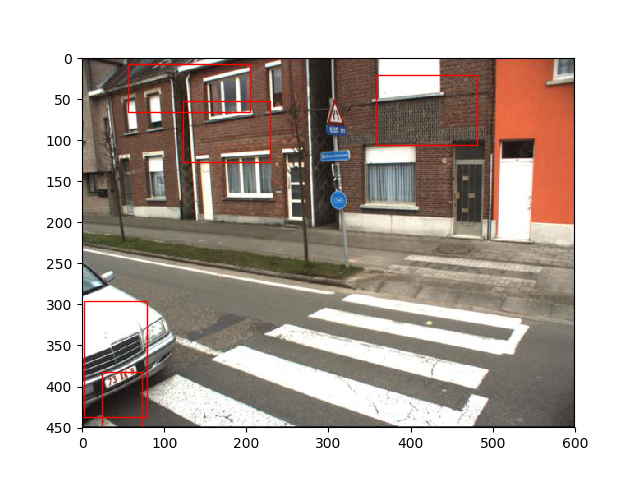
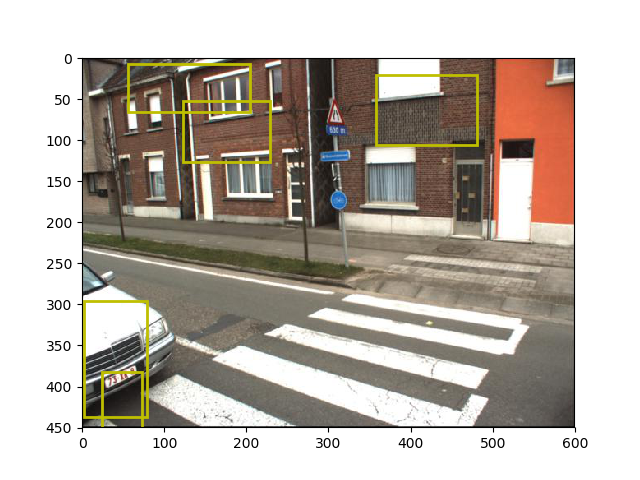
few changes

Changed region(s): [[0.1875, 0.125, 0.4375, 0.3438], [0.125, 0.625, 0.25, 0.875], [0.5625, 0.1562, 0.75, 0.3125]]

diff --git a/detection/data_loader.py b/detection/data_loader.py
@@ -9,10 +9,11 @@ import numpy as np
 import pandas as pd
 import csv
 from PIL import Image
+from data_loader import DetectionDataset
 
 
-width = 1200
-height = 800
+width = 416
+height = 416
 
 
 data_transform = transforms.Compose([
@@ -23,7 +24,7 @@ data_transform = transforms.Compose([
 
 class DetectionDataset(Dataset):
 
-	def __init__(self, root_dir, transform=data_transform, use_superclass=False, use_data='all'):
+	def __init__(self, root_dir, transform=data_transform, use_superclass=False, use_data='all', batch_size=8):
 		"""
 		Args:
 		    root_dir (string): Directory with all the images and annotation files
@@ -36,6 +37,8 @@ class DetectionDataset(Dataset):
 		self.root_dir = root_dir
 		self.transform = transform
 		self.use_superclass = use_superclass
+		self.batch_size = batch_size
+		self.current_batch_idx = 0
 
 		belgian = use_data == 'belgian' or use_data == 'all'
 		german = use_data == 'german' or use_data == 'all'
@@ -82,7 +85,6 @@ class DetectionDataset(Dataset):
 
 	def __getitem__(self, idx):
 		img_name = os.path.join(self.root_dir, self.annotations[idx][0])
-		print(img_name)
 
 		n_bboxes = len(self.annotations[idx])
 		n_bboxes -= 1 # Don't count the name
@@ -95,14 +97,17 @@ class DetectionDataset(Dataset):
 		  return (None, None, None, None)
 
 		image = np.array(image)
+		origin_im = image
+		# image = imcv2_recolor(image)
 		img_pil = Image.fromarray(image)
 
 		image_info = np.array([image.shape[0], image.shape[1], 1.5])
 
-		bboxes = np.zeros((1, 20, 5))
+		bboxes = []
+		# bboxes = np.zeros((1, 20, 5))
 
-		if n_bboxes > 20:
-			bboxes = np.zeros((1, n_bboxes, 5))
+		# if n_bboxes > 20:
+		# 	bboxes = np.zeros((1, n_bboxes, 5))
 
 		for i in range(n_bboxes):
 			bbox = self.annotations[idx][i*6+1: i*6+5]
@@ -120,18 +125,40 @@ class DetectionDataset(Dataset):
 				bbox.append(int(float(superclass_label)))
 			else:
 				bbox.append(int(float(class_label)))
-
-			bboxes[0, i, :] = bbox
+			bboxes.append(np.array(bbox))
 
 
 		image = self.transform(img_pil)
 		image = np.array(image)
 		image = np.moveaxis(image, -1, 0)
-		image = np.expand_dims(image, axis=0)
+		image = np.moveaxis(image, -1, 1)
 
-		data = (image, image_info, bboxes, n_bboxes)
+		data = (image, image_info, bboxes, n_bboxes, origin_im)
 
 		return data
+
+
+	def next_batch():
+		batch = {}
+		batch['images'] = []
+		batch['gt_boxes'] = []
+		batch['gt_classes'] = []
+		batch['dontcare'] = []
+		batch['origin_im'] = []
+
+		for i in range(self.batch_size):
+			data = self[self.current_batch_idx * self.batch_size + i]
+			batch['images'].append(data[0])
+			batch['gt_boxes'].append(data[2])
+			batch['gt_classes'].append([1])
+			batch['dontcare'] = []
+			batch['origin_im'].append(data[4])
+
+		self.current_batch_idx += 1
+		if (self.current_batch_idx+1) * self.batch_size  > len(self):
+			self.current_batch_idx = 0
+
+		return batch
 
 
 	def get_file_path(self, idx):
@@ -146,9 +173,9 @@ class DetectionDataset(Dataset):
 
 		plt.tight_layout()
 		im = sample[0]
-		im = np.squeeze(im, axis=0)
+		# im = np.squeeze(im, axis=0)
 
-		bboxes = sample[2][0]
+		bboxes = sample[2]
 		n_bboxes = sample[3]
 		image_info = sample[1]
 
@@ -166,6 +193,7 @@ class DetectionDataset(Dataset):
 			rect = patches.Rectangle((bbox[0],bbox[1]), bbox[2]-bbox[0], bbox[3]-bbox[1],linewidth=1,edgecolor='r',facecolor='none')
 			ax.add_patch(rect)
 
+		im = np.moveaxis(im, 1, -1)
 		im = np.moveaxis(im, 0, -1)	
 		ax.imshow(im)
 		plt.show()

diff --git a/detection/show_results.py b/detection/show_results.py
@@ -43,7 +43,7 @@ for image in image_to_bbox_dict:
 		bbox[2] = float(bbox[2])
 		bbox[3] = float(bbox[3])
 
-		rect = patches.Rectangle((bbox[0],bbox[1]), bbox[2]-bbox[0], bbox[3]-bbox[1],linewidth=1,edgecolor='r',facecolor='none')
+		rect = patches.Rectangle((bbox[0],bbox[1]), bbox[2]-bbox[0], bbox[3]-bbox[1],linewidth=2,edgecolor='y',facecolor='none')
 		ax.add_patch(rect)
 
 	plt.savefig(image + '_result.png', format='png')
